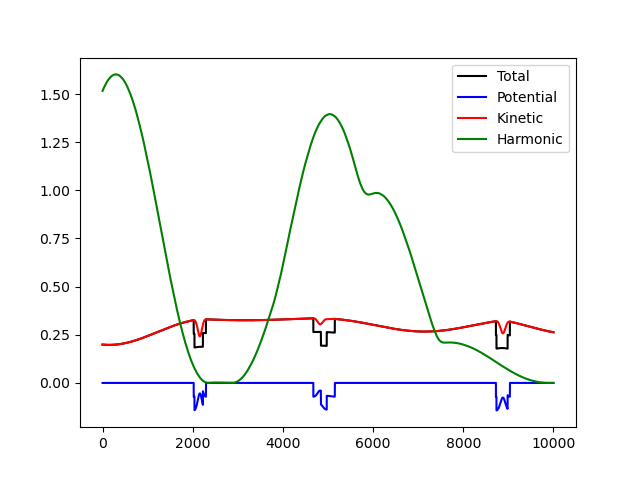
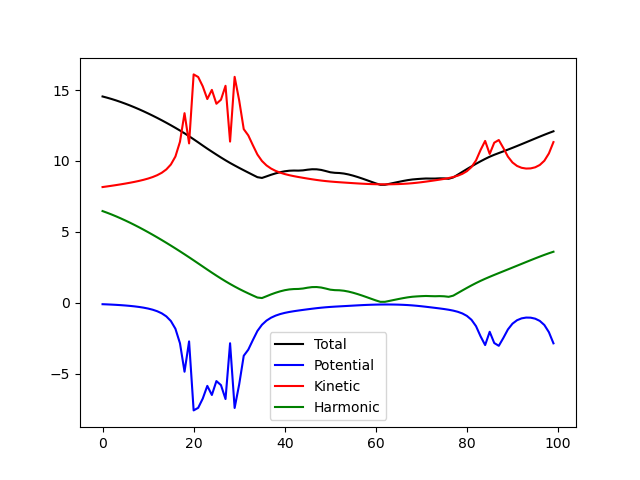
energy analysis

diff --git a/analysis/energy.py b/analysis/energy.py
@@ -6,10 +6,12 @@ import numpy as np
 sys.path.insert(0, os.path.abspath('..'))
 from diffmd.training import Trainer
 
+natoms = 14
+
 config = dict(
-    # folder = 'dataset/single_temp_massive_long_dt',
-    folder = '../dataset/single_temp_small',
-    device = torch.device('cuda'), 
+    folder = '../dataset/single_temp_large_cut_strong_spring',
+    # folder = '../dataset/archive/oscillation',
+    device = torch.device('cpu'), 
     training_fraction=1.0,
     random_dataset=False,
     traj_step=1,
@@ -24,12 +26,12 @@ config = dict(
     shuffle=True,
     num_workers=0,
     learning_rate=0.02,
-    nn_widths=[64, 48, 32],
+    nn_widths=[640, 480, 320],
     activation_function='tanh',
     eval_batch_length=1,
     eval_init_skip=1,
-    eval_traj_step=100,
-    load_folder='../results/temp',
+    eval_traj_step=1,
+    load_folder='../results/archive/2022-09-11/11-38-49/1920',
     dtype=torch.float32,
     itr_printing_freq=1,
     printing_freq=1,
@@ -42,6 +44,7 @@ config = dict(
     evaluation_freq=5,
     checkpoint_freq=2,
     loss_func = 'final-mse-pos',
+    normalize_loss = False,
     sigopt=False,
     )
 
@@ -50,7 +53,7 @@ if __name__ == '__main__':
 
     potential = trainer.func.net
 
-    df = pd.read_csv('../dataset/single_temp_small/train/NVE-temp-0.5_K-2.38111026821677_r-2_s-1.csv')
+    df = pd.read_csv('../dataset/single_temp_large_cut_strong_spring/train/NVE-temp-2.5_K-0.25_r-2_s-1.csv')
 
     energies = df['potential_energy'].to_numpy()
     
@@ -66,7 +69,8 @@ if __name__ == '__main__':
 
     #     pred_y = trainer.forward_pass(batch_input, batch_length=batch_length).squeeze()
     #     batch_y = batch_y.cpu().numpy()
-    #     batch_t = trainer.get_batch_t(batch_input[1], batch_length=batch_length).cpu().numpy()
+    #     batch_t = trainer.get_batch_t(batch_input[1], batch_length=batch_length).cpu().numpy())
+
 
     v, w, x, q = torch.split(trainer.training_dataset.data[0], [3, 3, 3, 4], dim=-1)
     # v, w, x, q = torch.split(pred_y, [3, 3, 3, 4], dim=-1)
@@ -76,7 +80,7 @@ if __name__ == '__main__':
     
     predicted_energies = potential(rq).detach().cpu().numpy()
     
-    indices = np.random.randint(5, size=rq.shape[0])
+    indices = np.random.randint(1000, size=rq.shape[0])
 
     import matplotlib.pyplot as plt
     plt.plot(energies[indices], predicted_energies[indices], 'o')
@@ -85,10 +89,22 @@ if __name__ == '__main__':
     plt.savefig('energy_matrix.png')
     plt.close()
 
-    num_steps = 10000
+
+
+
+
+
+    num_steps = 100
 
     print('before actual')
-    # plt.plot(energies[:num_steps], 'k--', label='Actual')
+    plt.plot(energies[:num_steps] * natoms, 'k', label='Actual')
+    plt.plot(predicted_energies[:num_steps] - predicted_energies[0], 'r', label='Predicted')
+
+    plt.ylabel('Energy')
+    plt.xlabel('Time step')
+    plt.legend()
+    plt.savefig('potential_compare.png')
+    plt.close()
 
     k = 2.38111026821677
     r0 = 2
@@ -101,10 +117,12 @@ if __name__ == '__main__':
     plt.plot(harmonic_energy[:num_steps], 'r--', alpha=0.5, label='Harmonic')
 
     M = 7.0
+
     kinetic_energy_trans = torch.sum(torch.sum(0.5 * M * v**2, dim=-1), dim=-1)
     
     batch_input, _, _ = trainer.training_dataset[0]
     inertia = batch_input[-1]
+
     kinetic_energy_rot = torch.sum(torch.sum(0.5 * inertia * w**2, dim=-1), dim=-1)
     
     kinetic_energy = (kinetic_energy_trans + kinetic_energy_rot).detach().cpu().numpy()
@@ -120,20 +138,22 @@ if __name__ == '__main__':
     plt.savefig('energy.png')
     plt.close()
 
+
+
+
     
-    actual_kinetic_energies = df['kinetic_energy'].to_numpy()
-    plt.plot(actual_kinetic_energies[:num_steps], 'k--', alpha=0.8, label='Actual Kinetic Energy')
+    # actual_kinetic_energies = df['kinetic_energy'].to_numpy() * natoms
+    # plt.plot(actual_kinetic_energies[:num_steps], 'r--', alpha=0.5, label='Actual Kinetic Energy')
 
-    predicted_kinetic_energies = kinetic_energy
-    plt.plot(predicted_kinetic_energies[:num_steps], 'r', alpha=0.5, label='Predicted Kinetic Energy')
-    plt.plot(kinetic_energy_trans.detach().cpu().numpy()[:num_steps], 'b--', alpha=0.5, label='Predicted Trans Kinetic')
-    plt.plot(kinetic_energy_rot.detach().cpu().numpy()[:num_steps], 'g-.', alpha=0.5, label='Predicted Rot Kinetic')
+    # predicted_kinetic_energies = kinetic_energy
+    # plt.plot(predicted_kinetic_energies[:num_steps], 'r', alpha=1.0, label='Predicted Kinetic Energy')
+    # plt.plot(kinetic_energy_trans.detach().cpu().numpy()[:num_steps], 'b', alpha=0.5, label='Predicted Trans Kinetic')
+    # plt.plot(kinetic_energy_rot.detach().cpu().numpy()[:num_steps], 'g', alpha=0.5, label='Predicted Rot Kinetic')
 
+    actual_potential_energies = df['potential_energy'].to_numpy() * natoms
+    plt.plot(actual_potential_energies[:num_steps], 'b', label='Actual Potential Energy')
 
-    # actual_potential_energies = df['potential_energy'].to_numpy()
-    # plt.plot(actual_potential_energies[:num_steps], 'b', label='Actual Potential Energy')
-
-    # actual_total_energies = df['total_energy'].to_numpy()
+    # actual_total_energies = df['total_energy'].to_numpy() * natoms
     # plt.plot(actual_total_energies[:num_steps], 'k--', label='Actual Total Energy')
 
     plt.legend()
@@ -141,10 +161,12 @@ if __name__ == '__main__':
     plt.close()
 
 
+
+
     # ENERGIES FROM LAMMPS
-    plt.plot(df['total_energy'].to_numpy()[:num_steps], 'k', label='Total')
-    plt.plot(df['potential_energy'].to_numpy()[:num_steps], 'b', label='Potential')
-    plt.plot(df['kinetic_energy'].to_numpy()[:num_steps], 'r', label='Kinetic')
+    plt.plot(df['total_energy'].to_numpy()[:num_steps] * natoms + harmonic_energy[:num_steps], 'k', label='Total')
+    plt.plot(df['potential_energy'].to_numpy()[:num_steps] * natoms, 'b', label='Potential')
+    plt.plot(df['kinetic_energy'].to_numpy()[:num_steps] * natoms, 'r', label='Kinetic')
     plt.plot(harmonic_energy[:num_steps], 'g', label='Harmonic')
     plt.legend()
     plt.savefig('LAMMPS_energy.png')

diff --git a/lammps/lammps.py b/lammps/lammps.py
@@ -36,7 +36,7 @@ def assignVariables(file_path, variables, values):
 # run main
 if __name__ == '__main__':
 
-    folder_name = 'single_temp_continous'
+    folder_name = 'single_temp_large_cut_strong_spring'
 
     if not os.path.exists(f'../dataset/{folder_name}'):
         os.makedirs(f'../dataset/{folder_name}')
@@ -44,9 +44,9 @@ if __name__ == '__main__':
     variables = ['$CUT', '$TEMP', '$R0', '$K', '$SEED', '$LOG_FREQ', '$RUNSTEPS', '$TIMESTEP' ]
     
     cut = 10
-    temp = 0.5
+    temp = 2.5
     r0 = 2
-    k = 6*temp/cut/cut
+    k = 10*temp/cut/cut
     
     # takes about 50 seconds
     log_freq = 10000
@@ -61,21 +61,21 @@ if __name__ == '__main__':
     #     slurm_file.append('\n')
 
     # train
-    for seed in range(1, 9):
+    for seed in range(1, 41):
         values = [cut, temp, r0, k, seed, log_freq, runsteps, timestep]
         assignVariables(f'../dataset/{folder_name}/train', variables, values)
         run_script += [f'cd train/ \n', f'sbatch run-{seed}.sh \n', 'cd .. \n']
         
         
     # test
-    for seed in range(9, 10):
+    for seed in range(41, 46):
         values = [cut, temp, r0, k, seed, log_freq, runsteps, timestep]
         assignVariables(f'../dataset/{folder_name}/test', variables, values)
         run_script += [f'cd test/ \n', f'sbatch run-{seed}.sh \n', 'cd .. \n']
         
 
     # validate
-    for seed in range(10, 11):
+    for seed in range(46, 51):
         values = [cut, temp, r0, k, seed, log_freq, runsteps, timestep]
         assignVariables(f'../dataset/{folder_name}/validation', variables, values)
         run_script += [f'cd validation/ \n', f'sbatch run-{seed}.sh \n', 'cd .. \n']
